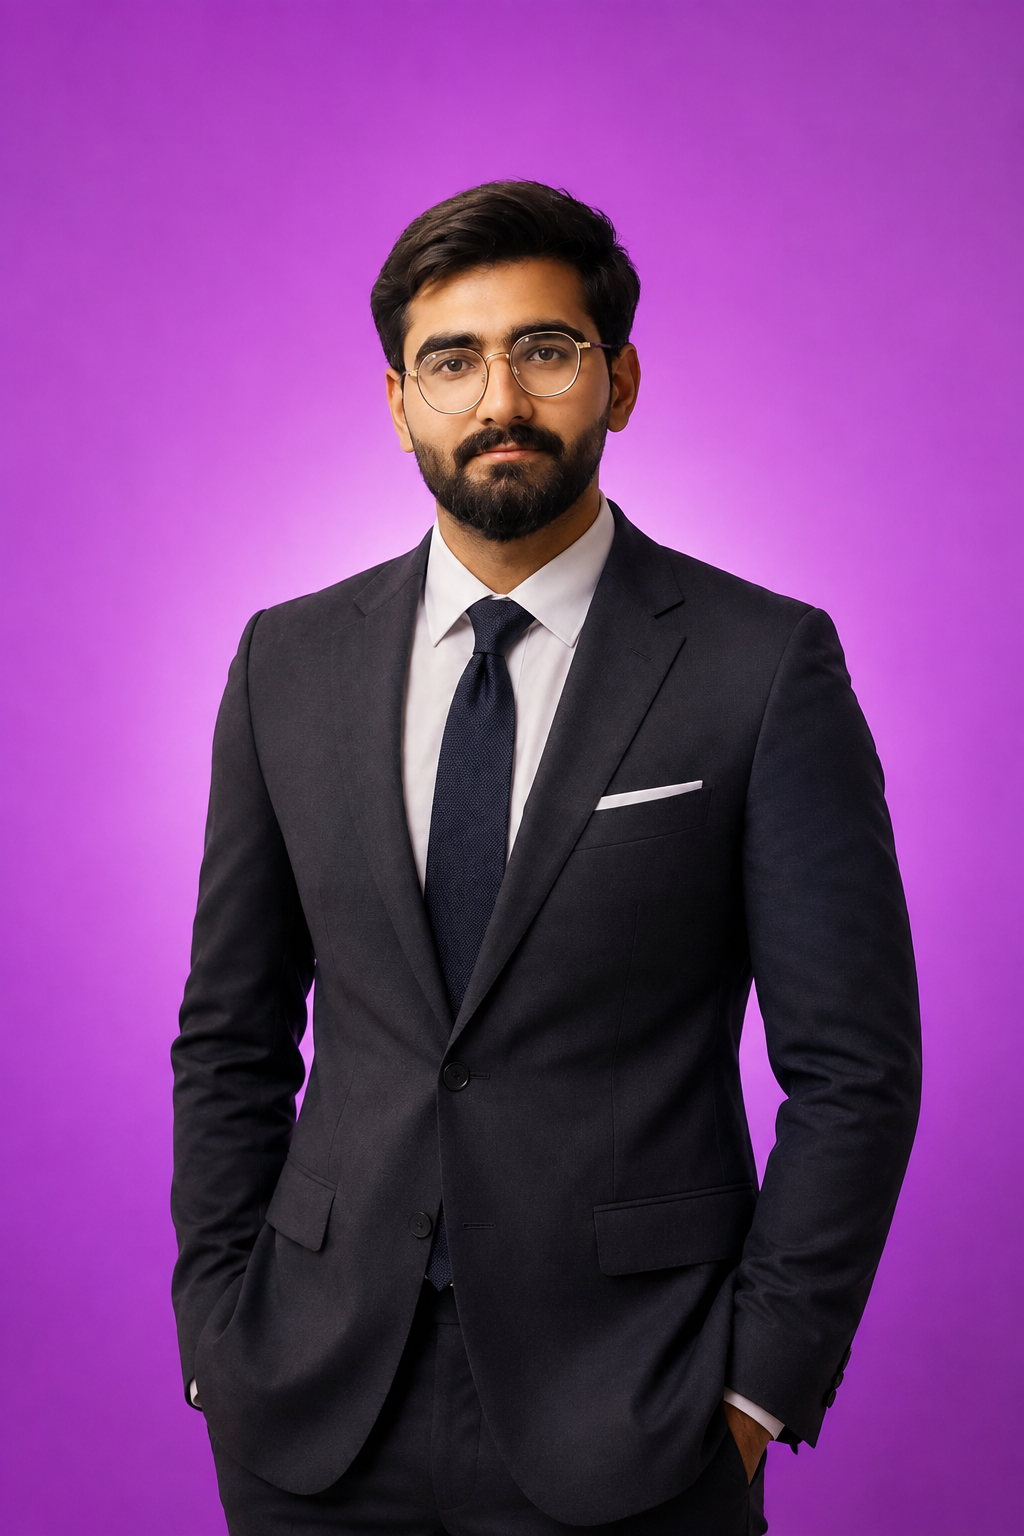
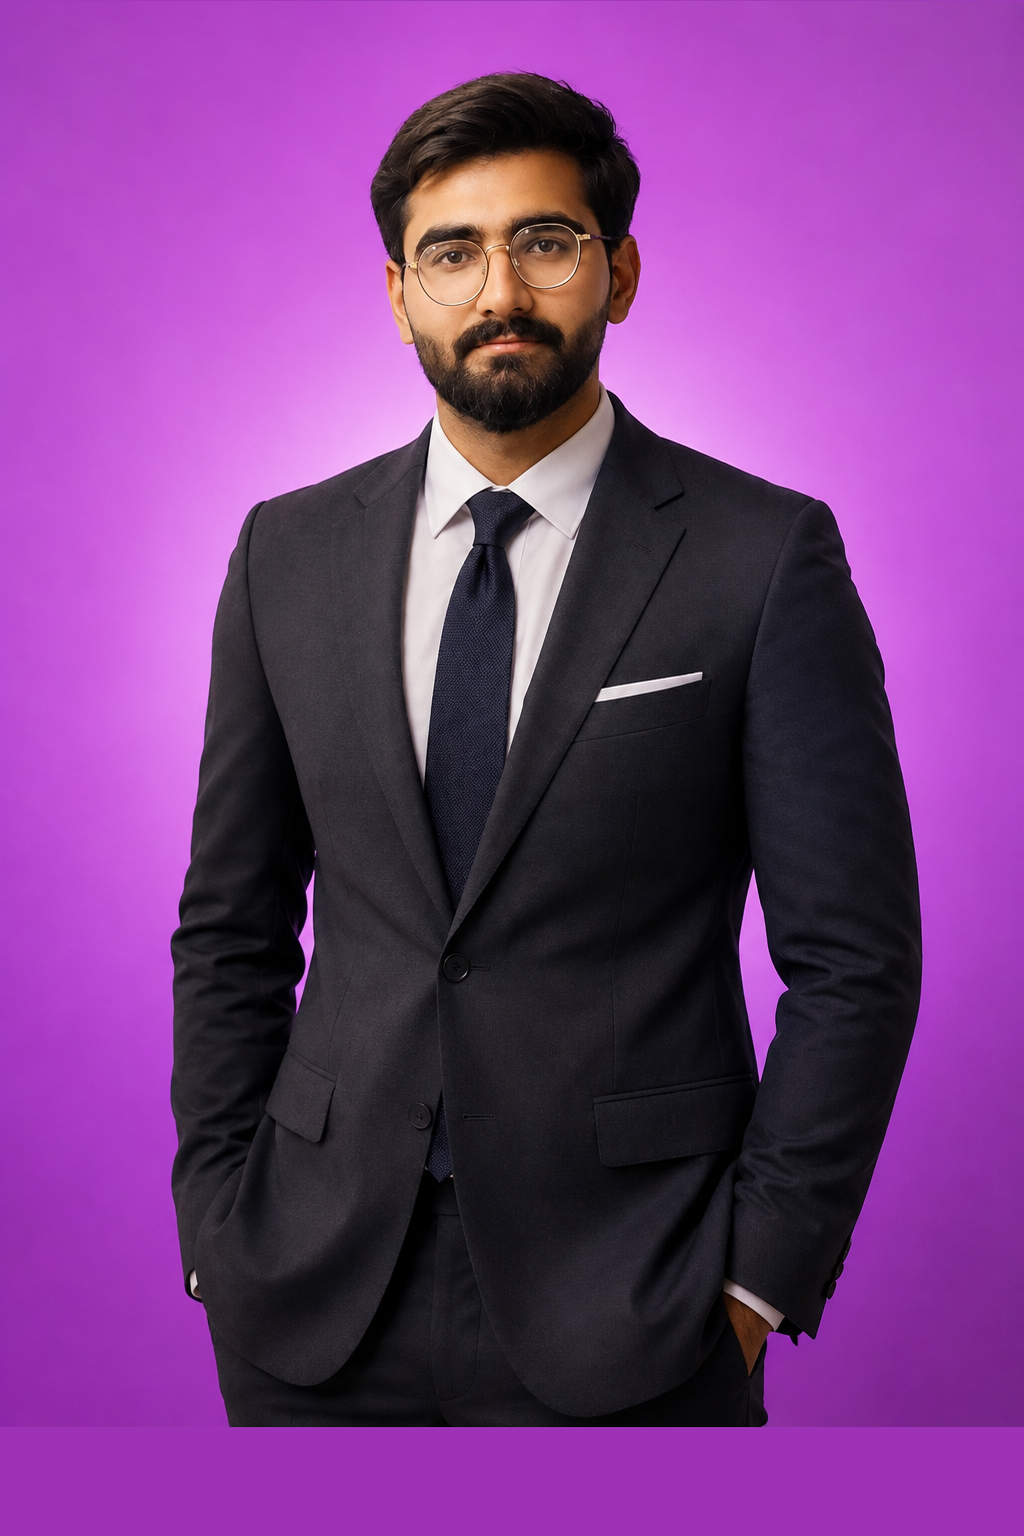
Align team photos: same size, hair position, and bottom crop
Processed all 3 team photos to have:
- Same dimensions (1024x1536)
- Hair aligned at ~5% from top
- Bottom crop aligned at ~93%
- Consistent framing in 3:4 aspect ratio container
- objectPosition: top center for all

Also updated Furqan photo with new image.

Changed region(s): [[0.1562, 0.0312, 1.0, 1.0]]

diff --git a/app/about/page.tsx b/app/about/page.tsx
@@ -101,21 +101,21 @@ const team = [
     role: "Founder & CEO",
     bio: "Former Google strategist with 10+ years scaling digital operations for enterprise brands.",
     image: "/team/afrasyab.png",
-    zoom: "1.1",
+    objPos: "top center",
   },
   {
     name: "Muhammad Furqan",
     role: "Head of SEO",
     bio: "Technical SEO expert who has driven 300%+ organic growth for e-commerce brands.",
     image: "/team/furqan-new.png",
-    zoom: "1.1",
+    objPos: "top center",
   },
   {
     name: "Muhammad Aamir",
     role: "Creative Director",
     bio: "Award-winning designer passionate about brands that challenge industry norms.",
     image: "/team/aamir.png",
-    zoom: "1.1",
+    objPos: "top center",
   },
 ];
 
@@ -502,7 +502,7 @@ export default function AboutPage() {
                           alt={member.name}
                           fill
                           className="object-cover group-hover:scale-105 transition-transform duration-500"
-                          style={{ objectPosition: "top center" }}
+                          style={{ objectPosition: member.objPos }}
                           sizes="(max-width: 768px) 100vw, 33vw"
                         />
                       </div>
